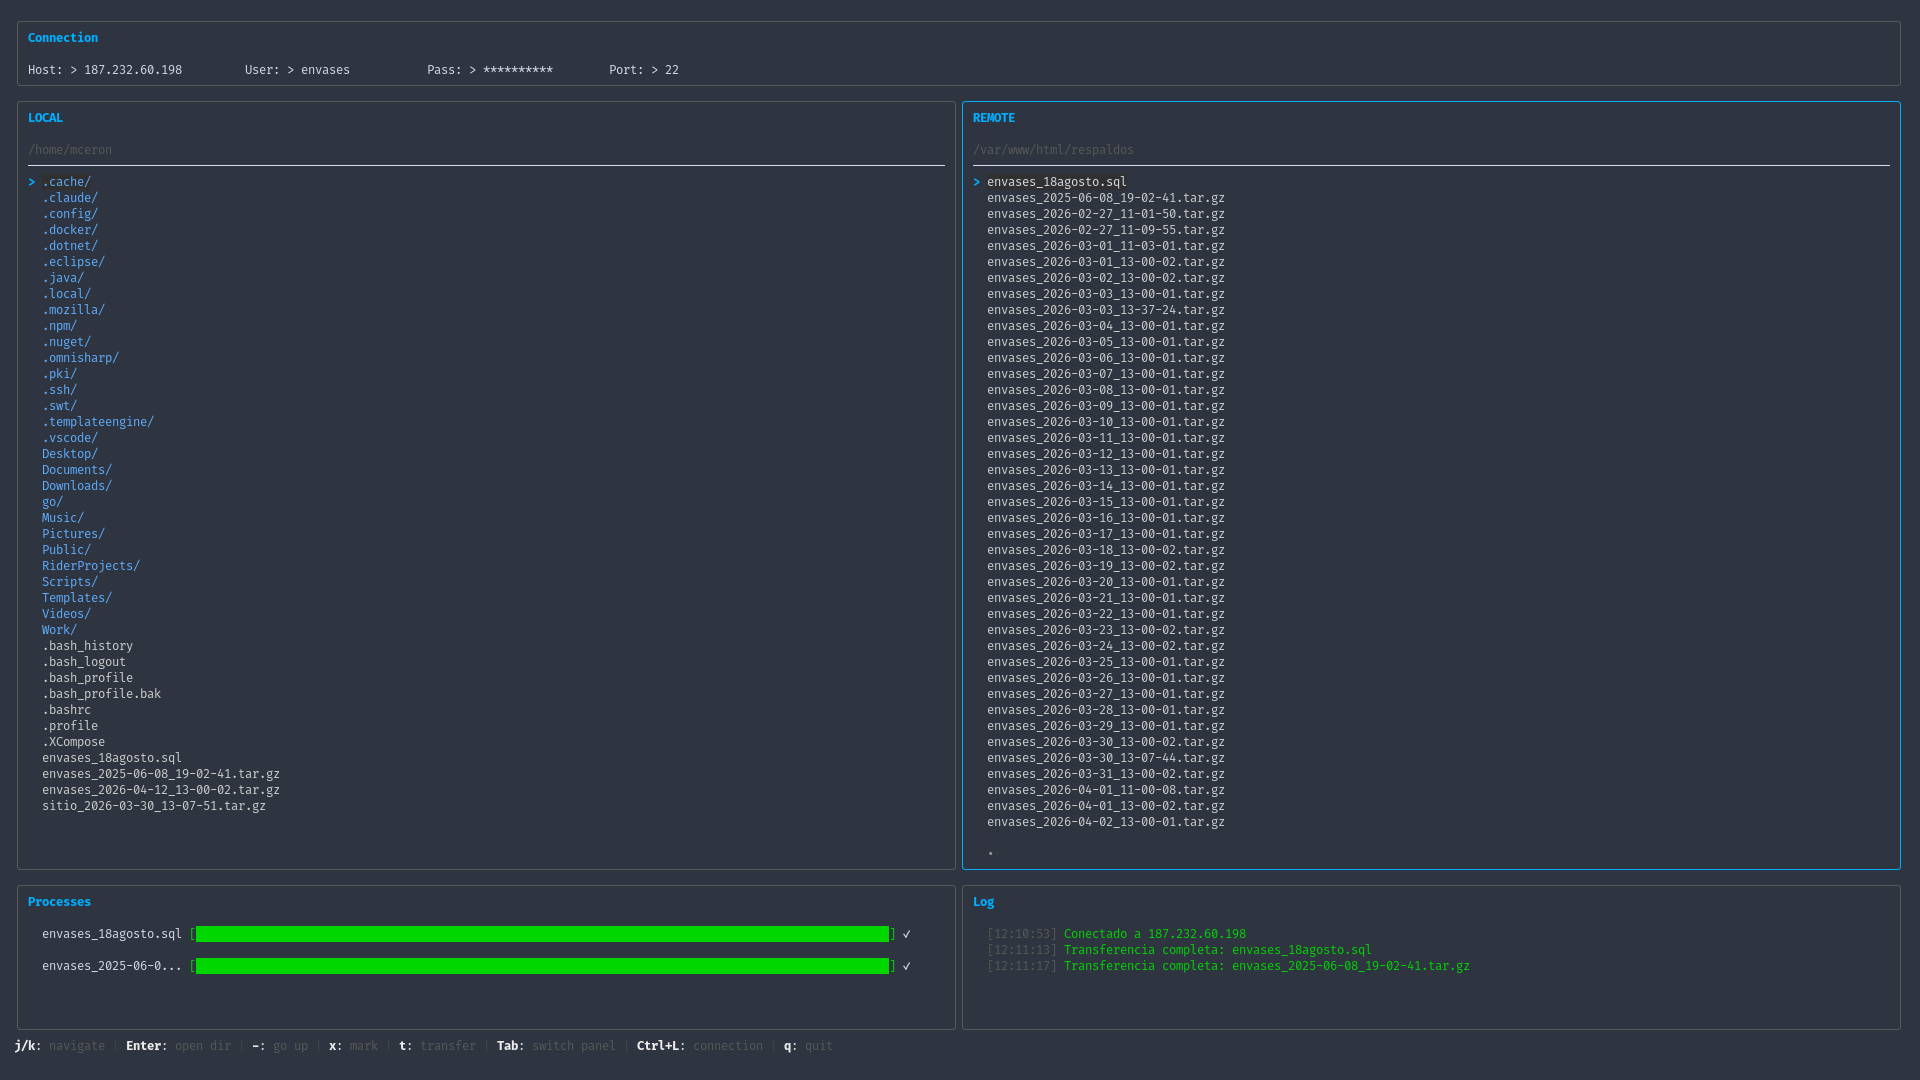
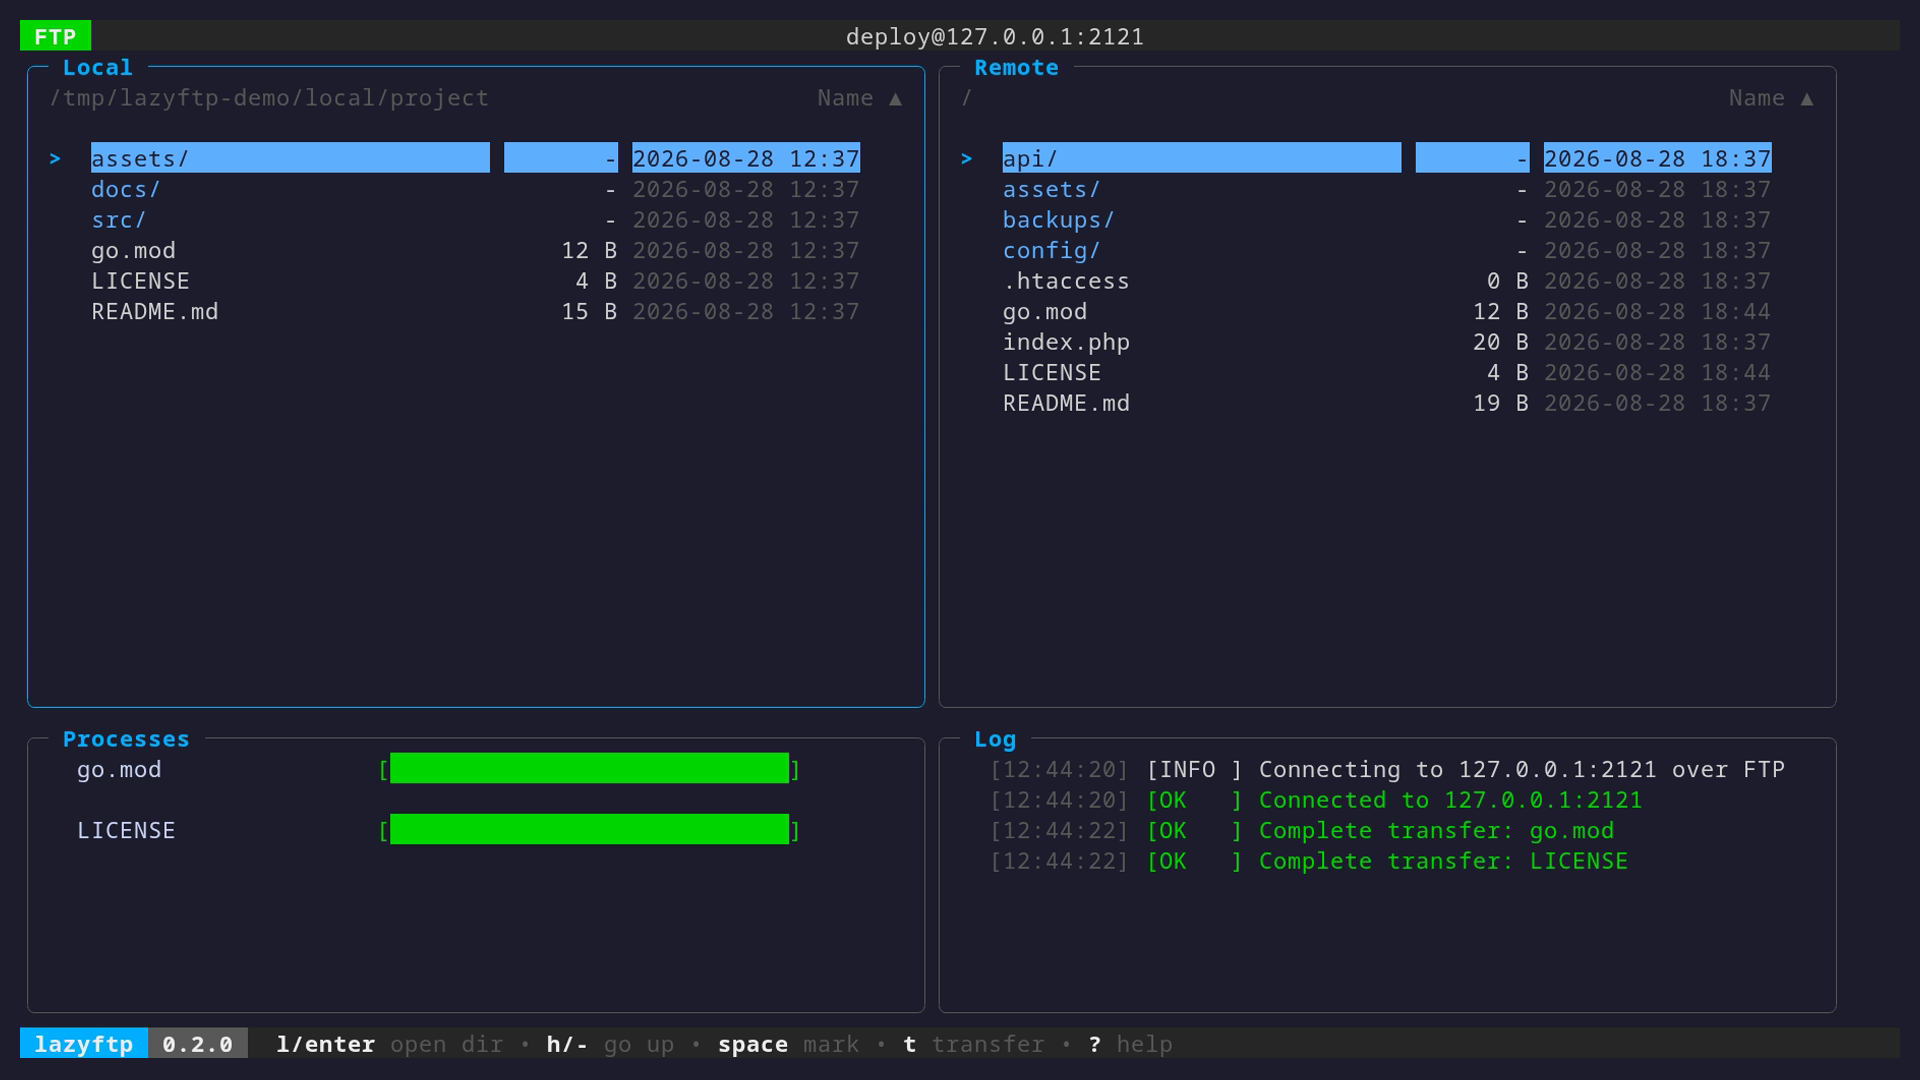
docs: update README's Built with badges and screenshot for v0.2.0
Bubbles was missing from Built with, and none of the three carried a
version. The screenshot was from before nearly all of this milestone's
visual work -- permanent connection panel, no size/date columns, the old
flat-color bars, x for marking.

Changed region(s): [[0.0, 0.0, 1.0, 0.825], [0.0, 0.825, 1.0, 0.9778]]

diff --git a/README.md b/README.md
@@ -27,8 +27,9 @@ from the keyboard.
 
 ### Built with
 
-[![Bubbletea](https://img.shields.io/badge/bubbletea-gray?style=for-the-badge)](https://github.com/charmbracelet/bubbletea)
-[![Lipgloss](https://img.shields.io/badge/lipgloss-gray?style=for-the-badge)](https://github.com/charmbracelet/lipgloss)
+[![Bubbletea](https://img.shields.io/badge/bubbletea-v2.0.8-gray?style=for-the-badge)](https://github.com/charmbracelet/bubbletea)
+[![Bubbles](https://img.shields.io/badge/bubbles-v2.1.1-gray?style=for-the-badge)](https://github.com/charmbracelet/bubbles)
+[![Lipgloss](https://img.shields.io/badge/lipgloss-v2.0.6-gray?style=for-the-badge)](https://github.com/charmbracelet/lipgloss)
 
 ---
 
